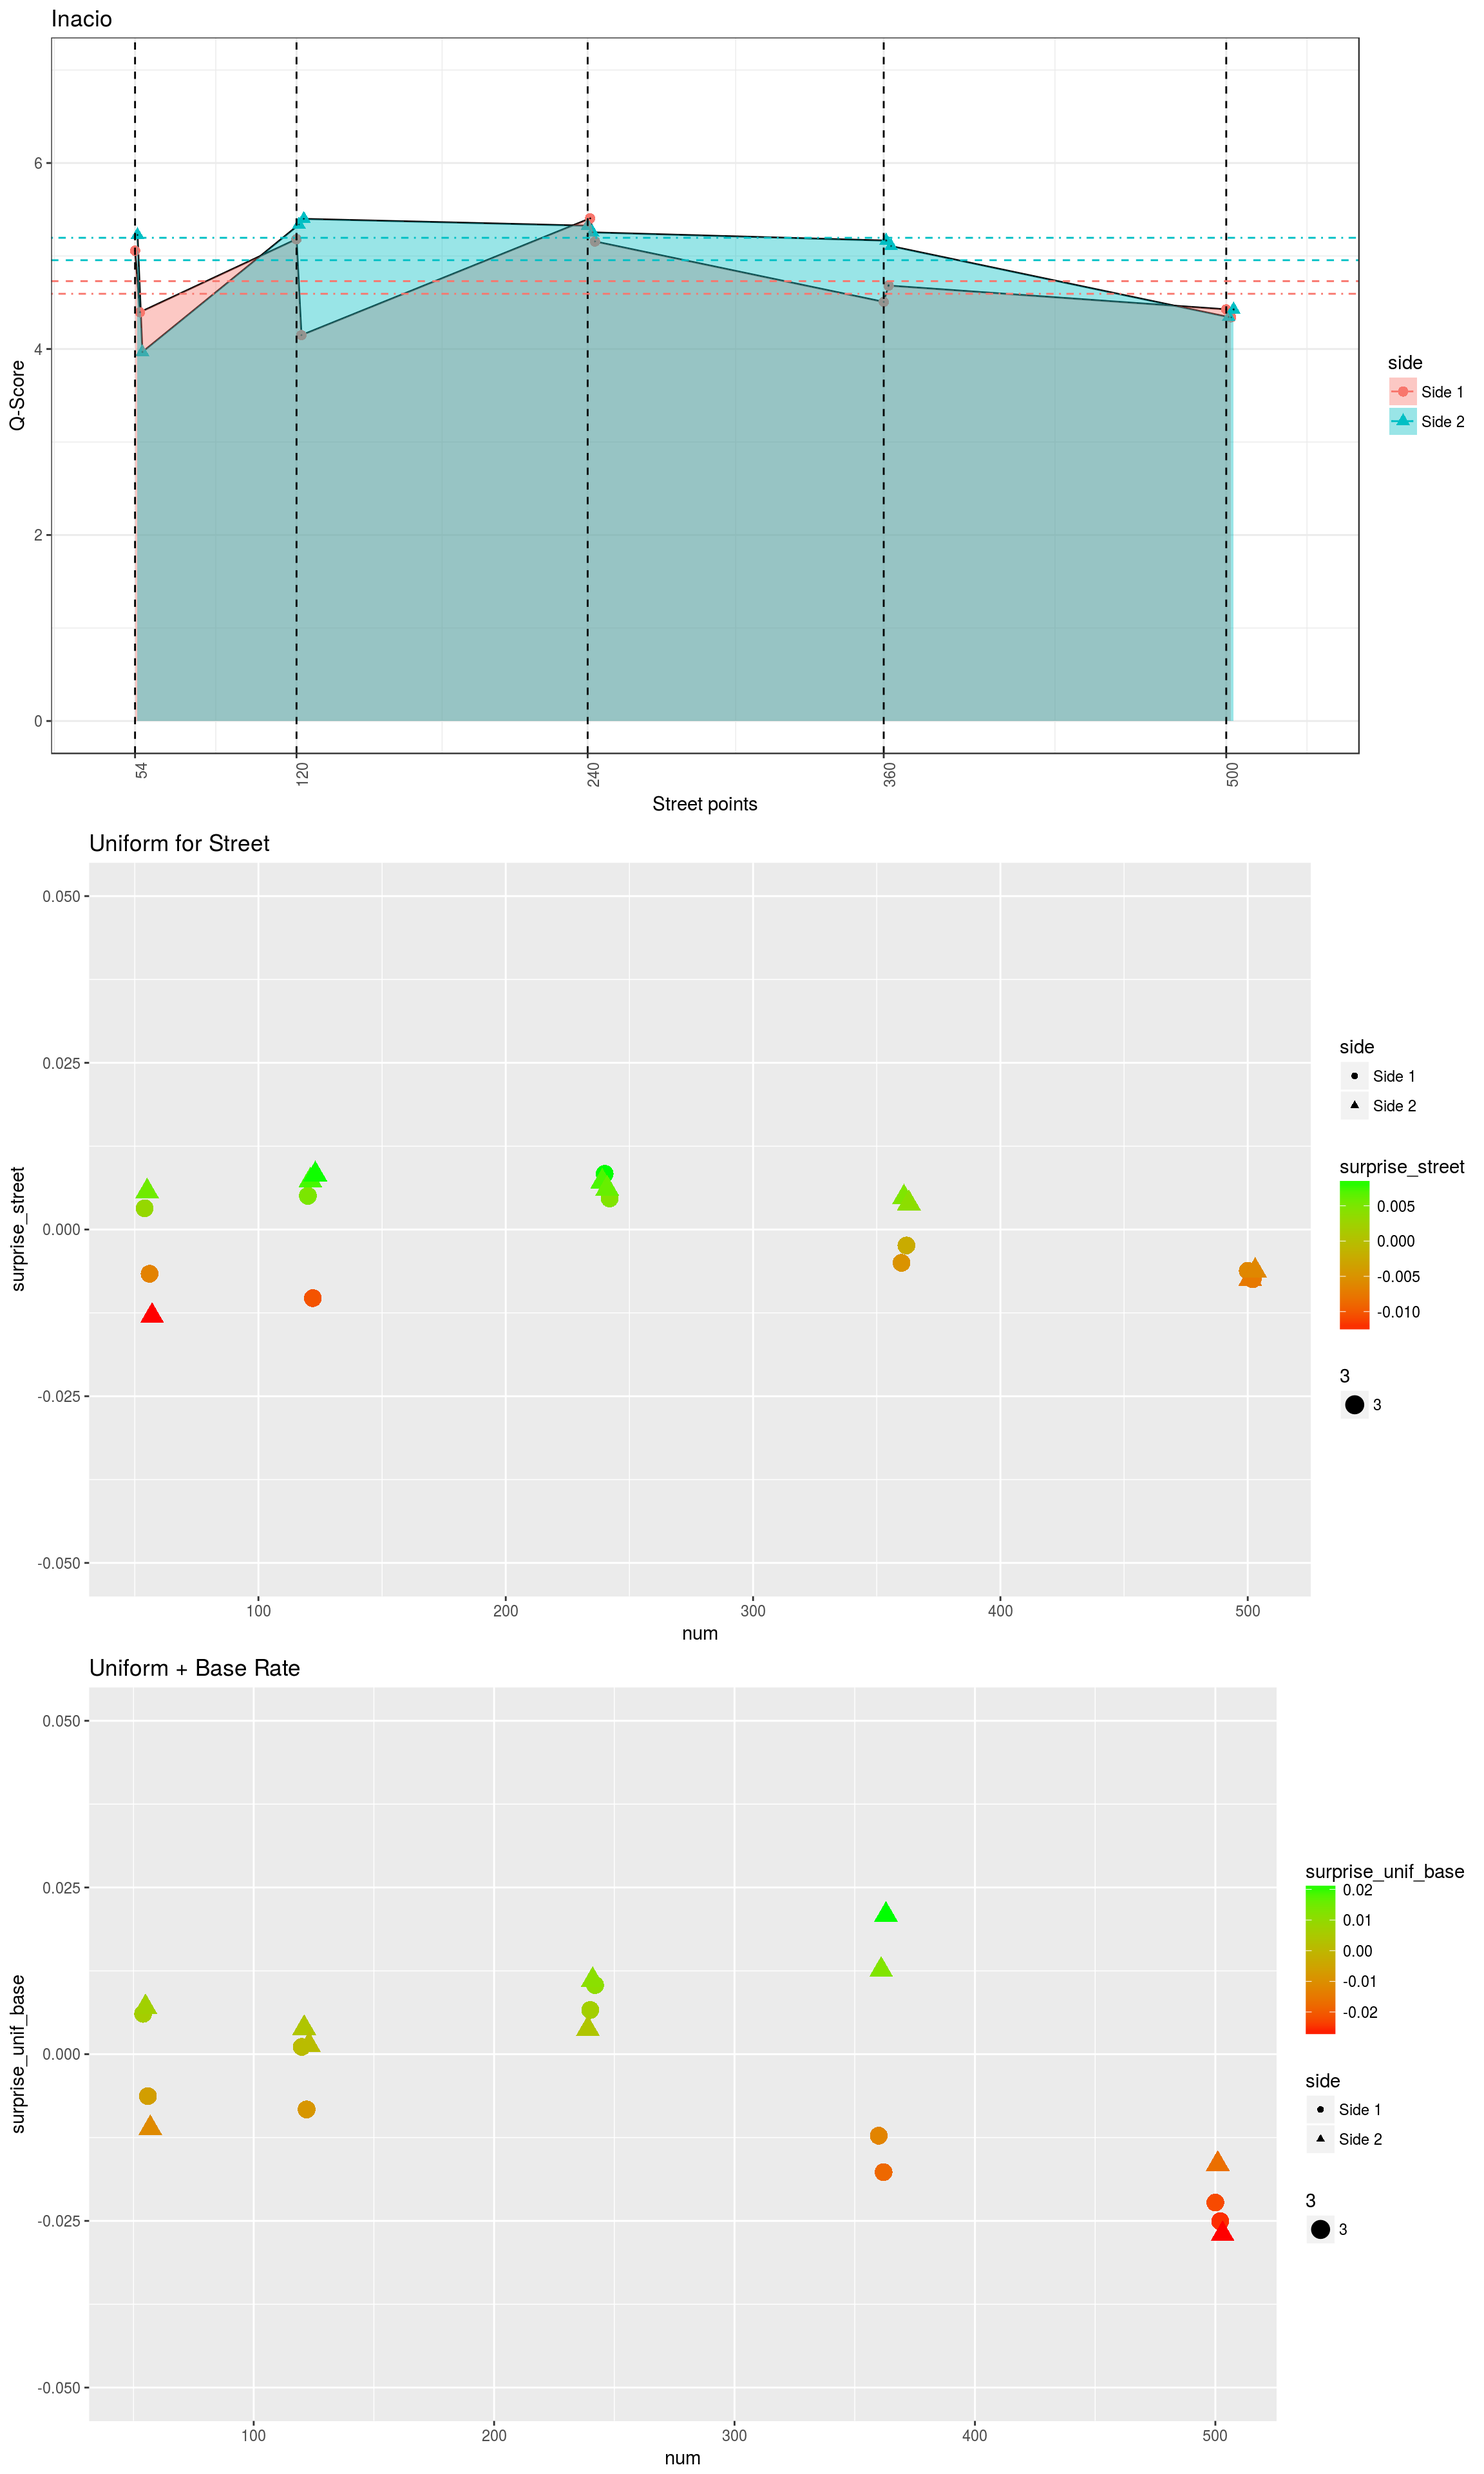
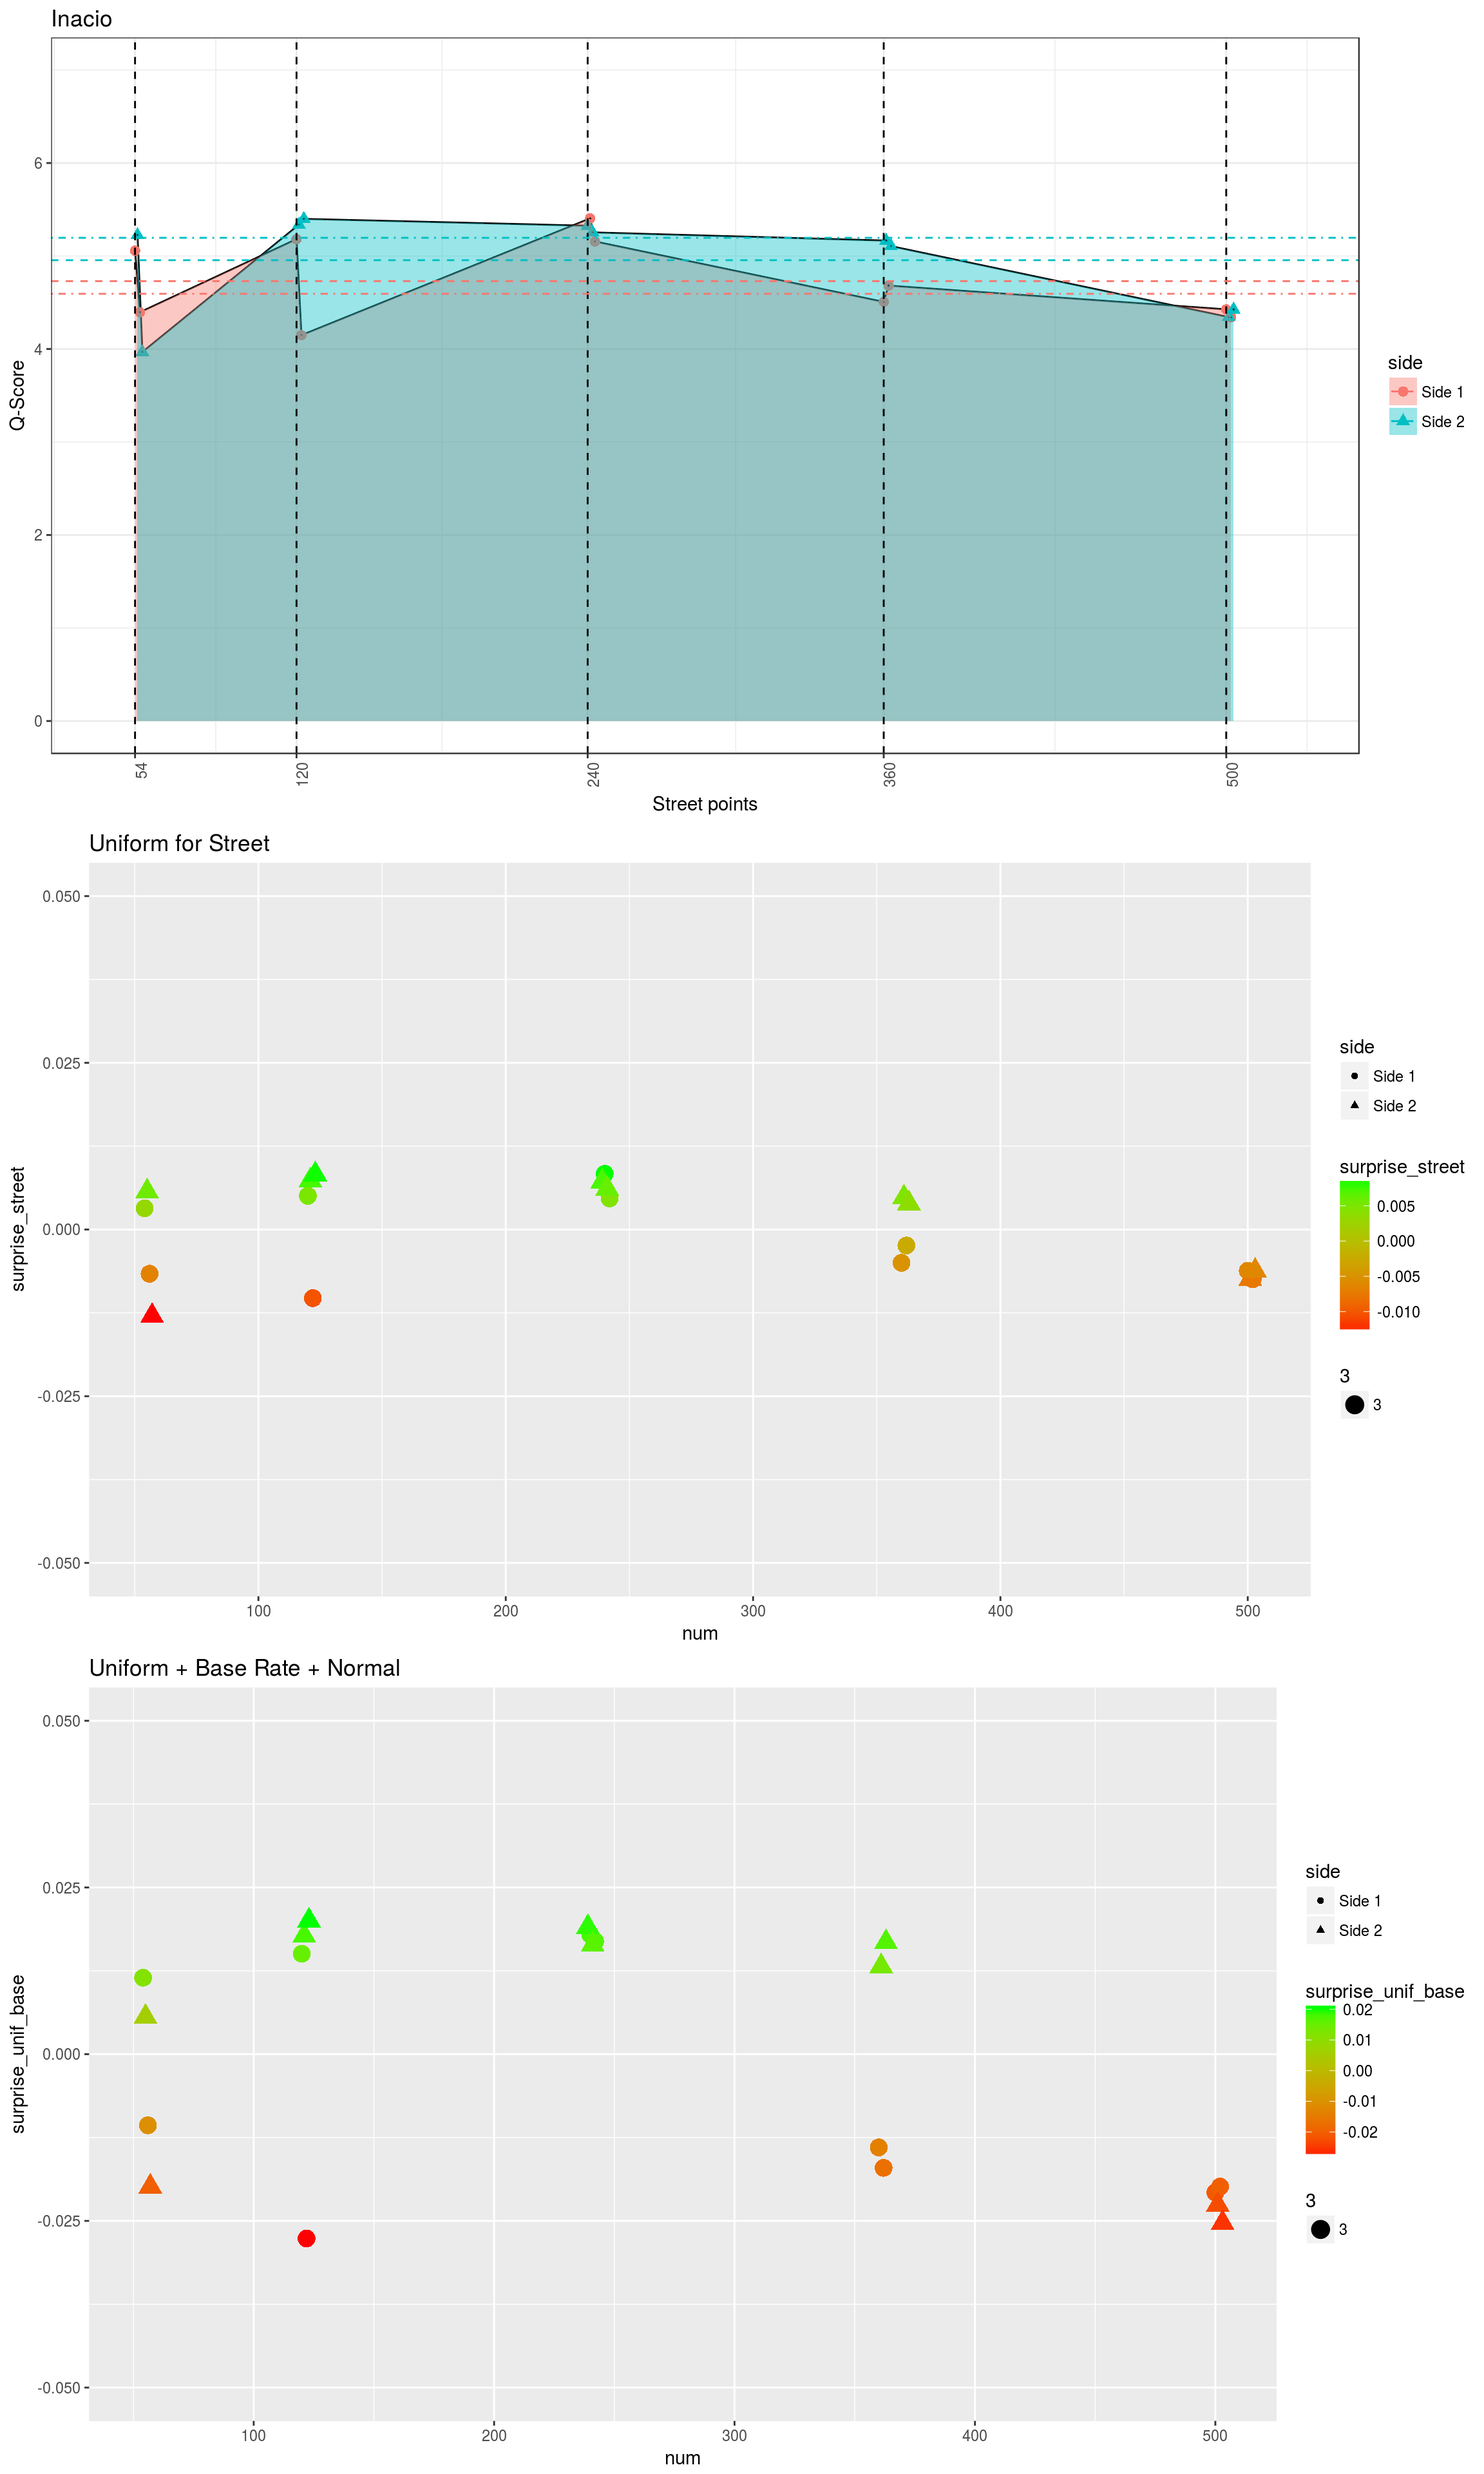
Updating surprise maps analysis

diff --git a/scripts/analise/dadosSet17/usuario/surprise/demo.js b/scripts/analise/dadosSet17/usuario/surprise/demo.js
@@ -137,6 +137,14 @@ function makeMaps(){
   }
   document.getElementById("baseconf").textContent = text_base_conf;
 
+  var text_norm_conf = "";
+  for (value in bust.pM){ 
+	text_base_conf = text_base_conf + (bust.pM[value]+"\n"); 
+  }
+  document.getElementById("normconf").textContent = text_base_conf;
+
+
+
 
   //Make both our density and surprise maps
   //makeBigMap(rate,data,"Unemployment","rates");
@@ -357,6 +365,36 @@ function makeRandom(){
   return randData;
 }
 
+window.temp = {
+    spareNormal: undefined
+};
+
+Math.normal = function (mean, standardDeviation) {
+    let q, u, v, p;
+
+    mean = mean || 0.5;
+    standardDeviation = standardDeviation || 0.125;
+
+    if (typeof temp.spareNormal !== 'undefined') {
+        v = mean + standardDeviation * temp.spareNormal;
+        temp.spareNormal = undefined;
+
+        return v;
+    }
+
+    do  {
+        u = 2.0 * Math.random() - 1.0;
+        v = 2.0 * Math.random() - 1.0;
+
+        q = u * u + v * v;
+    } while (q >= 1.0 || q === 0);
+
+    p = Math.sqrt(-2.0 * Math.log(q) / q);
+
+    temp.spareNormal = v * p;
+    return mean + standardDeviation * u * p;
+}
+
 function calcSurprise(){
 
   
@@ -381,7 +419,7 @@ function calcSurprise(){
   //0 = uniform, 1 = boom, 2 = bust
   
   //Initially, everything is equiprobable.
-  var pMs =[(1/2),(1/2)]//,(1/3)];
+  var pMs =[(1/3),(1/3),(1/3)];
 
   uniform.surprise = [];
   boom.surprise = [];
@@ -389,22 +427,28 @@ function calcSurprise(){
   
   uniform.pM = [pMs[0]];
   boom.pM = [pMs[1]];//Max of street
-  //bust.pM = [pMs[2]];//Min of street
+  bust.pM = [pMs[2]];//Min of street
   
   var pDMs = [];
   var pMDs = [];
   var avg;
   var total;
+
+  var normal_fit = {"R._Cristina_Procópio_Silva" : [4.92394878, 0.62351231], "R._Maciel_Pinheiro" : [4.84016850, 0.28028584], "R._Inácio_Marquês_da_Silva": [4.84231882, 0.46291311], "R._Manoel_Pereira_de_Araújo": [3.65700904, 0.19215810], "Av._Mal._Floriano_Peixoto": [ 5.04950088, 0.34203741], "R._Edésio_Silva": [4.77236112, 0.48215430]};
   
   //Bayesian surprise is the KL divergence from prior to posterior
   var kl;
-  var diffs = [0,0]//,0];
-  var sumDiffs = [0,0]//,0];
+  var diffs = [0,0,0];
+  var sumDiffs = [0,0,0];
   for(var i = 0; i < 20; i++){
-    sumDiffs = [0,0]//,0];
+    sumDiffs = [0,0,0];
 
     //Calculate per state surprise
     for(var prop in data){
+
+      var norm_data = normal_fit[prop]
+      var norm_estimate = Math.normal(norm_data[0], norm_data[1]);
+
       avg_street  = average_street(prop);//For whole street
       total_street = sumU_street(prop);
       avg_num = average_num(prop, i);//For current point
@@ -417,15 +461,15 @@ function calcSurprise(){
       //boom -> Average per num
       diffs[1] = ((data[prop][i]/total_street) - (avg_num/total_street));
       pDMs[1] = 1 - Math.abs(diffs[1]);
-      /*//bust
-      diffs[2] = ((data[prop][i]/total) - (avg/total));
-      pDMs[2] = 1 - Math.abs(diffs[2]);*/
+      //normal
+      diffs[2] = ((data[prop][i]/total_street) - (norm_estimate/total_street));
+      pDMs[2] = 1 - Math.abs(diffs[2]);
       
       //Estimate P(M|D)
       //uniform
       pMDs[0] = pMs[0]*pDMs[0];
       pMDs[1] = pMs[1]*pDMs[1];
-      //pMDs[2] = pMs[2]*pDMs[2];
+      pMDs[2] = pMs[2]*pDMs[2];
       
       
       // Surprise is the sum of KL divergance across model space
@@ -459,7 +503,7 @@ function calcSurprise(){
     
     uniform.pM.push(pMs[0]);
     boom.pM.push(pMs[1]);
-    //bust.pM.push(pMs[2]);
+    bust.pM.push(pMs[2]);
     
   }
   

diff --git a/scripts/analise/dadosSet17/usuario/analisaPorRua2.html b/scripts/analise/dadosSet17/usuario/analisaPorRua2.html
@@ -185,6 +185,14 @@ $(document).ready(function () {
 </ol>
 <div id="cristina-procopio" class="section level1">
 <h1>Cristina Procópio</h1>
+<pre><code>## 
+##  Shapiro-Wilk normality test
+## 
+## data:  cristina$qscore
+## W = 0.83573, p-value = 0.003102</code></pre>
+<pre><code>##       mean          sd    
+##   4.92394878   0.62351231 
+##  (0.13942159) (0.09858595)</code></pre>
 <pre><code>## [1] &quot;&gt;&gt;&gt; GINI da rua: &quot;</code></pre>
 <pre><code>## [1] 0.06451732</code></pre>
 <pre><code>##   num      value
@@ -561,6 +569,14 @@ best<br>R._Cristina_Procópio_Silva_436_315-&gt; 5.427303
 </div>
 <div id="edesio-silva" class="section level1">
 <h1>Edésio Silva</h1>
+<pre><code>## 
+##  Shapiro-Wilk normality test
+## 
+## data:  edesio$qscore
+## W = 0.93872, p-value = 0.2268</code></pre>
+<pre><code>##       mean          sd    
+##   4.77236112   0.48215430 
+##  (0.10781298) (0.07623529)</code></pre>
 <pre><code>## [1] &quot;&gt;&gt;&gt; GINI da rua:  0.0576744342800989&quot;</code></pre>
 <pre><code>##    num       value
 ## 1   70 0.070664761
@@ -938,6 +954,14 @@ best<br>R._Edésio_Silva_1546_315-&gt; 5.247739
 </div>
 <div id="inacio-marques" class="section level1">
 <h1>Inácio Marques</h1>
+<pre><code>## 
+##  Shapiro-Wilk normality test
+## 
+## data:  inacio$qscore
+## W = 0.87607, p-value = 0.01504</code></pre>
+<pre><code>##       mean          sd    
+##   4.84231882   0.46291311 
+##  (0.10351052) (0.07319299)</code></pre>
 <pre><code>## [1] &quot;&gt;&gt;&gt; GINI da rua:  0.0531601377276022&quot;</code></pre>
 <pre><code>##   num       value
 ## 1  54 0.059452874
@@ -1312,6 +1336,14 @@ none<br>R._Inácio_Marquês_da_Silva_500_270-&gt; 4.425348
 </div>
 <div id="floriano-peixoto" class="section level1">
 <h1>Floriano peixoto</h1>
+<pre><code>## 
+##  Shapiro-Wilk normality test
+## 
+## data:  floriano$qscore
+## W = 0.97586, p-value = 0.8703</code></pre>
+<pre><code>##       mean          sd    
+##   5.04950088   0.34203741 
+##  (0.07648189) (0.05408086)</code></pre>
 <pre><code>## [1] &quot;&gt;&gt;&gt; GINI da rua:  0.0380414099374088&quot;</code></pre>
 <pre><code>##   num      value
 ## 1 913 0.04078231
@@ -1684,6 +1716,14 @@ worst<br>Av._Mal._Floriano_Peixoto_913_293-&gt; 4.246906
 </div>
 <div id="maciel-pinheiro" class="section level1">
 <h1>Maciel Pinheiro</h1>
+<pre><code>## 
+##  Shapiro-Wilk normality test
+## 
+## data:  maciel$qscore
+## W = 0.94228, p-value = 0.2647</code></pre>
+<pre><code>##       mean          sd    
+##   4.84016850   0.28028584 
+##  (0.06267382) (0.04431708)</code></pre>
 <pre><code>## [1] &quot;&gt;&gt;&gt; GINI da rua:  0.0327767504596409&quot;</code></pre>
 <pre><code>##   num      value
 ## 1 248 0.03654238
@@ -2061,6 +2101,14 @@ best<br>R._Maciel_Pinheiro_360_360-&gt; 5.001745
 </div>
 <div id="manoel-pereira" class="section level1">
 <h1>Manoel Pereira</h1>
+<pre><code>## 
+##  Shapiro-Wilk normality test
+## 
+## data:  manoel$qscore
+## W = 0.95482, p-value = 0.4461</code></pre>
+<pre><code>##       mean          sd    
+##   3.65700904   0.19215810 
+##  (0.04296786) (0.03038286)</code></pre>
 <pre><code>## [1] &quot;&gt;&gt;&gt; GINI da rua:  0.0292035753018673&quot;</code></pre>
 <pre><code>##   num      value
 ## 1 370 0.03210463

diff --git a/scripts/analise/dadosSet17/usuario/surprise/index.html b/scripts/analise/dadosSet17/usuario/surprise/index.html
@@ -23,6 +23,8 @@
 
   Os valores de confiança no base rate evoluiu assim <span id="baseconf"></span>
 
+  Os valores de confiança no normal evoluiu assim <span id="normconf"></span>
+
   <div id="models">
     <div id="mLabel">
       <p>Expected</p>
